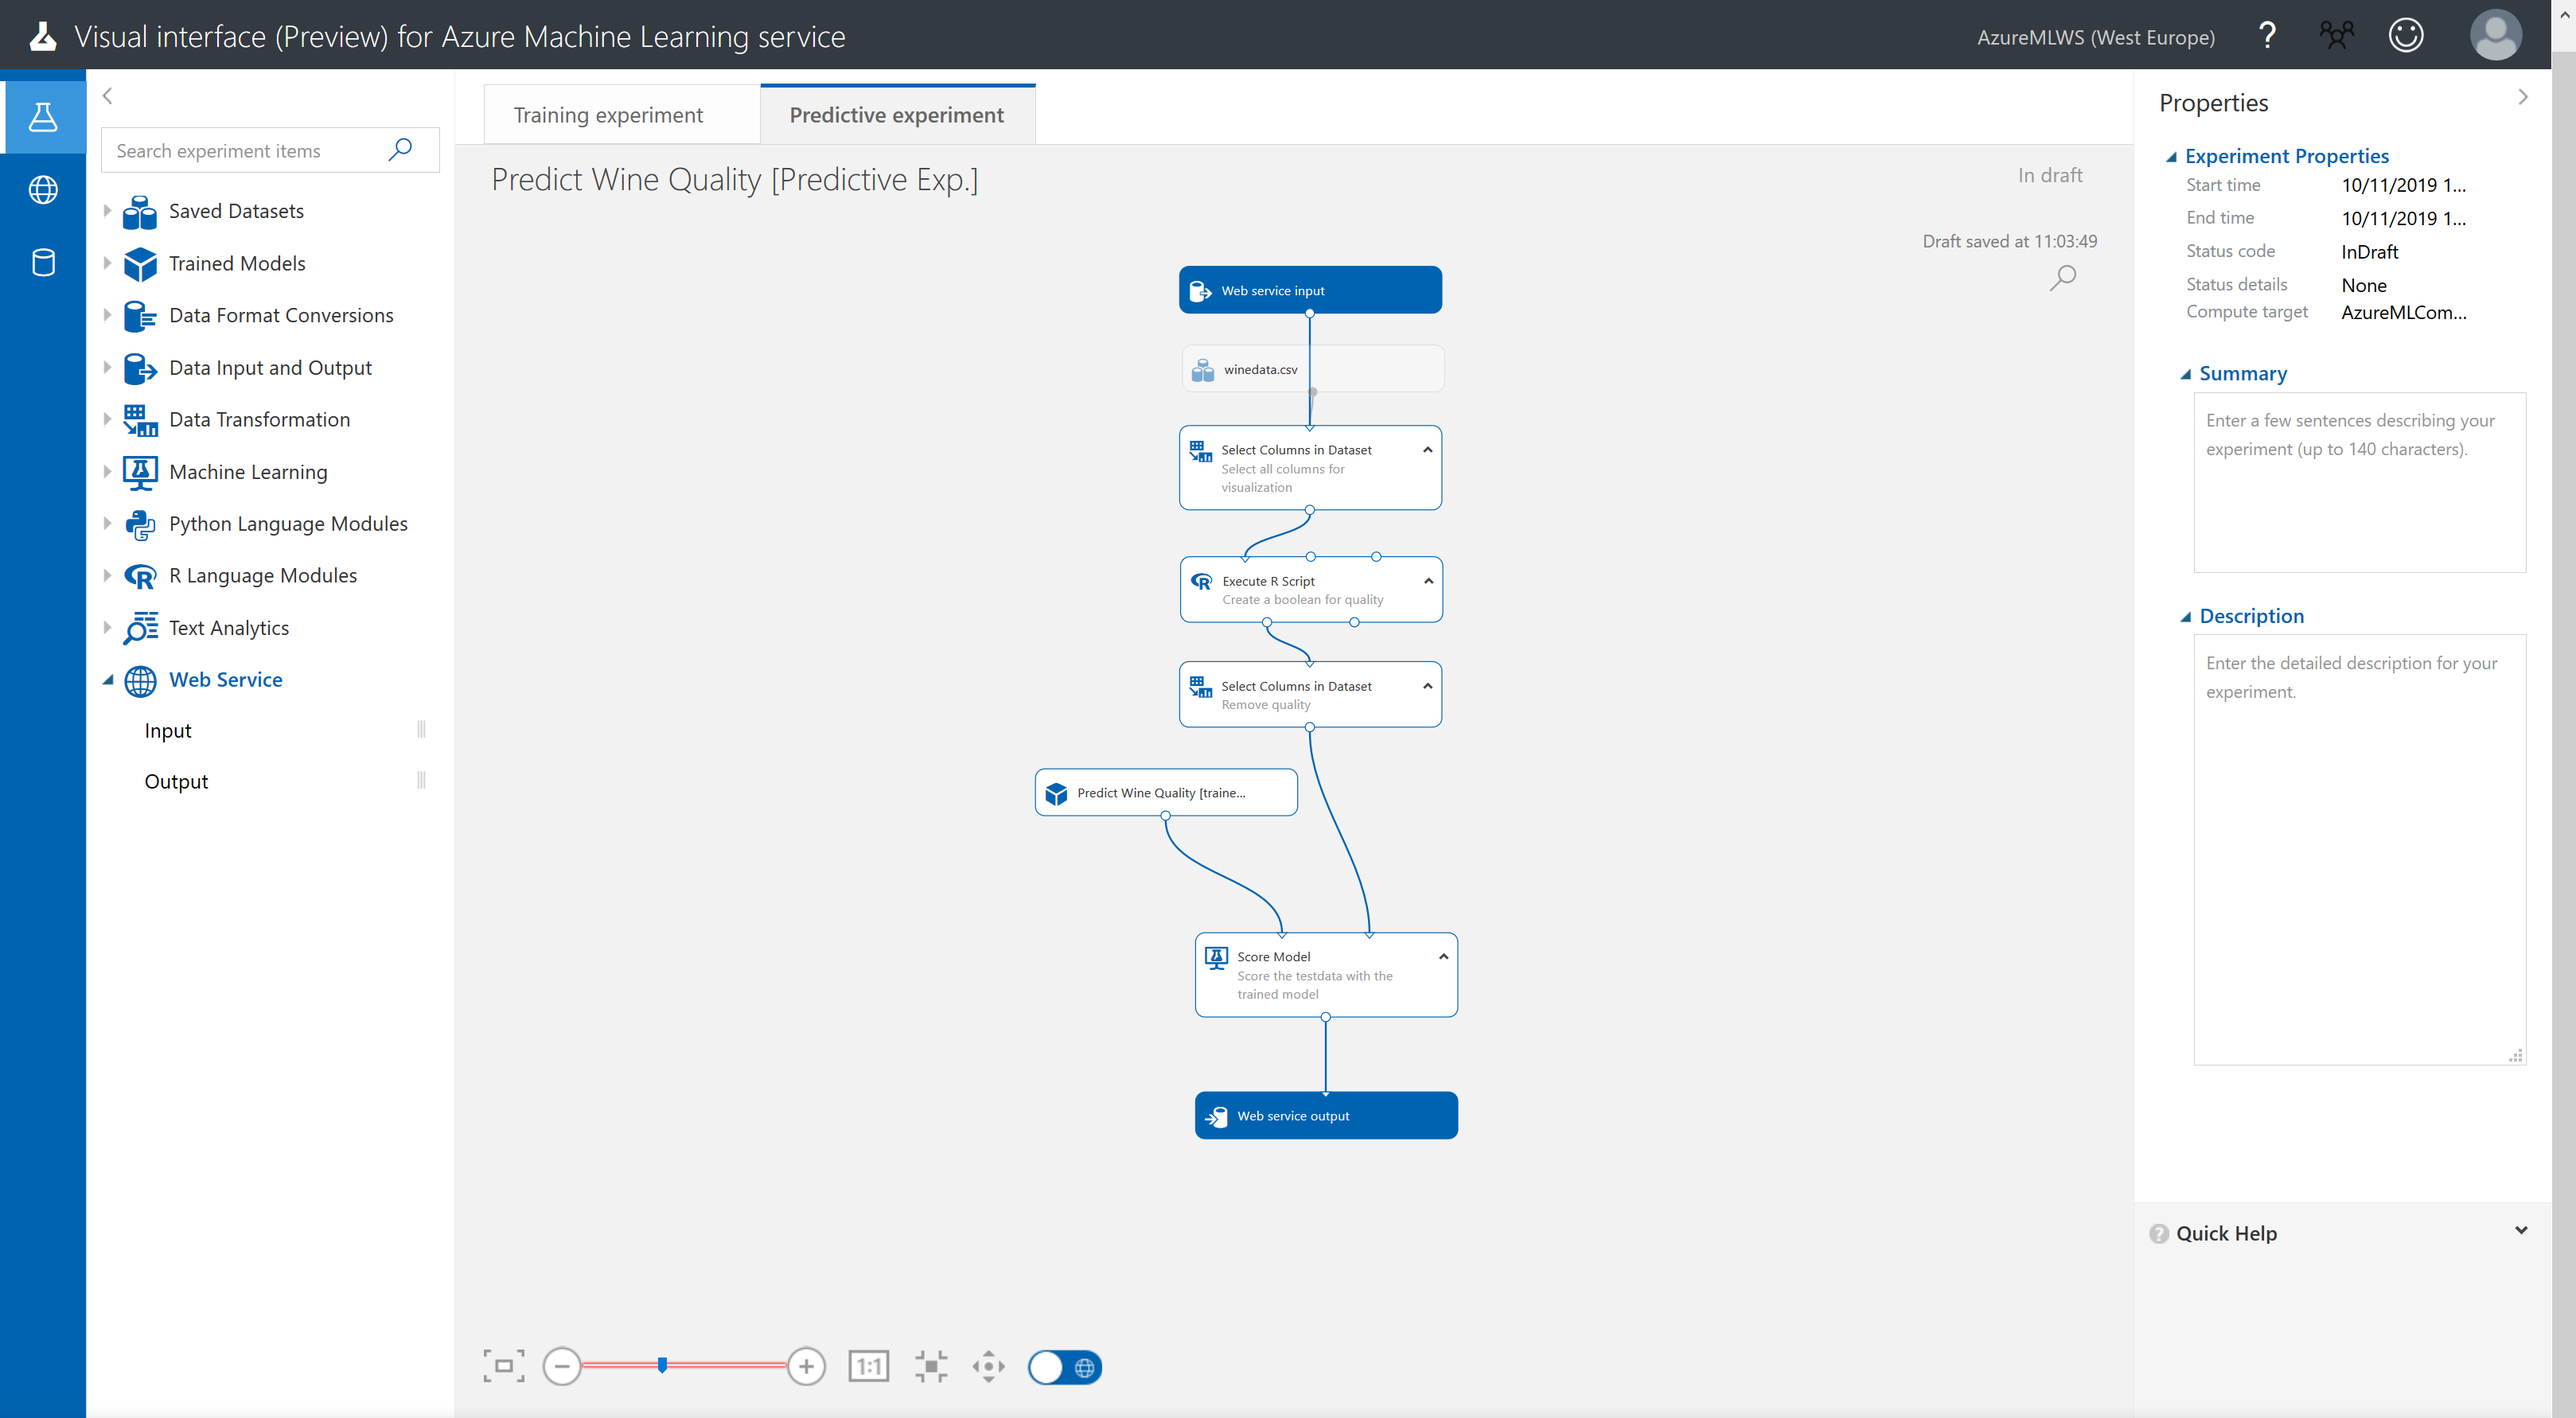
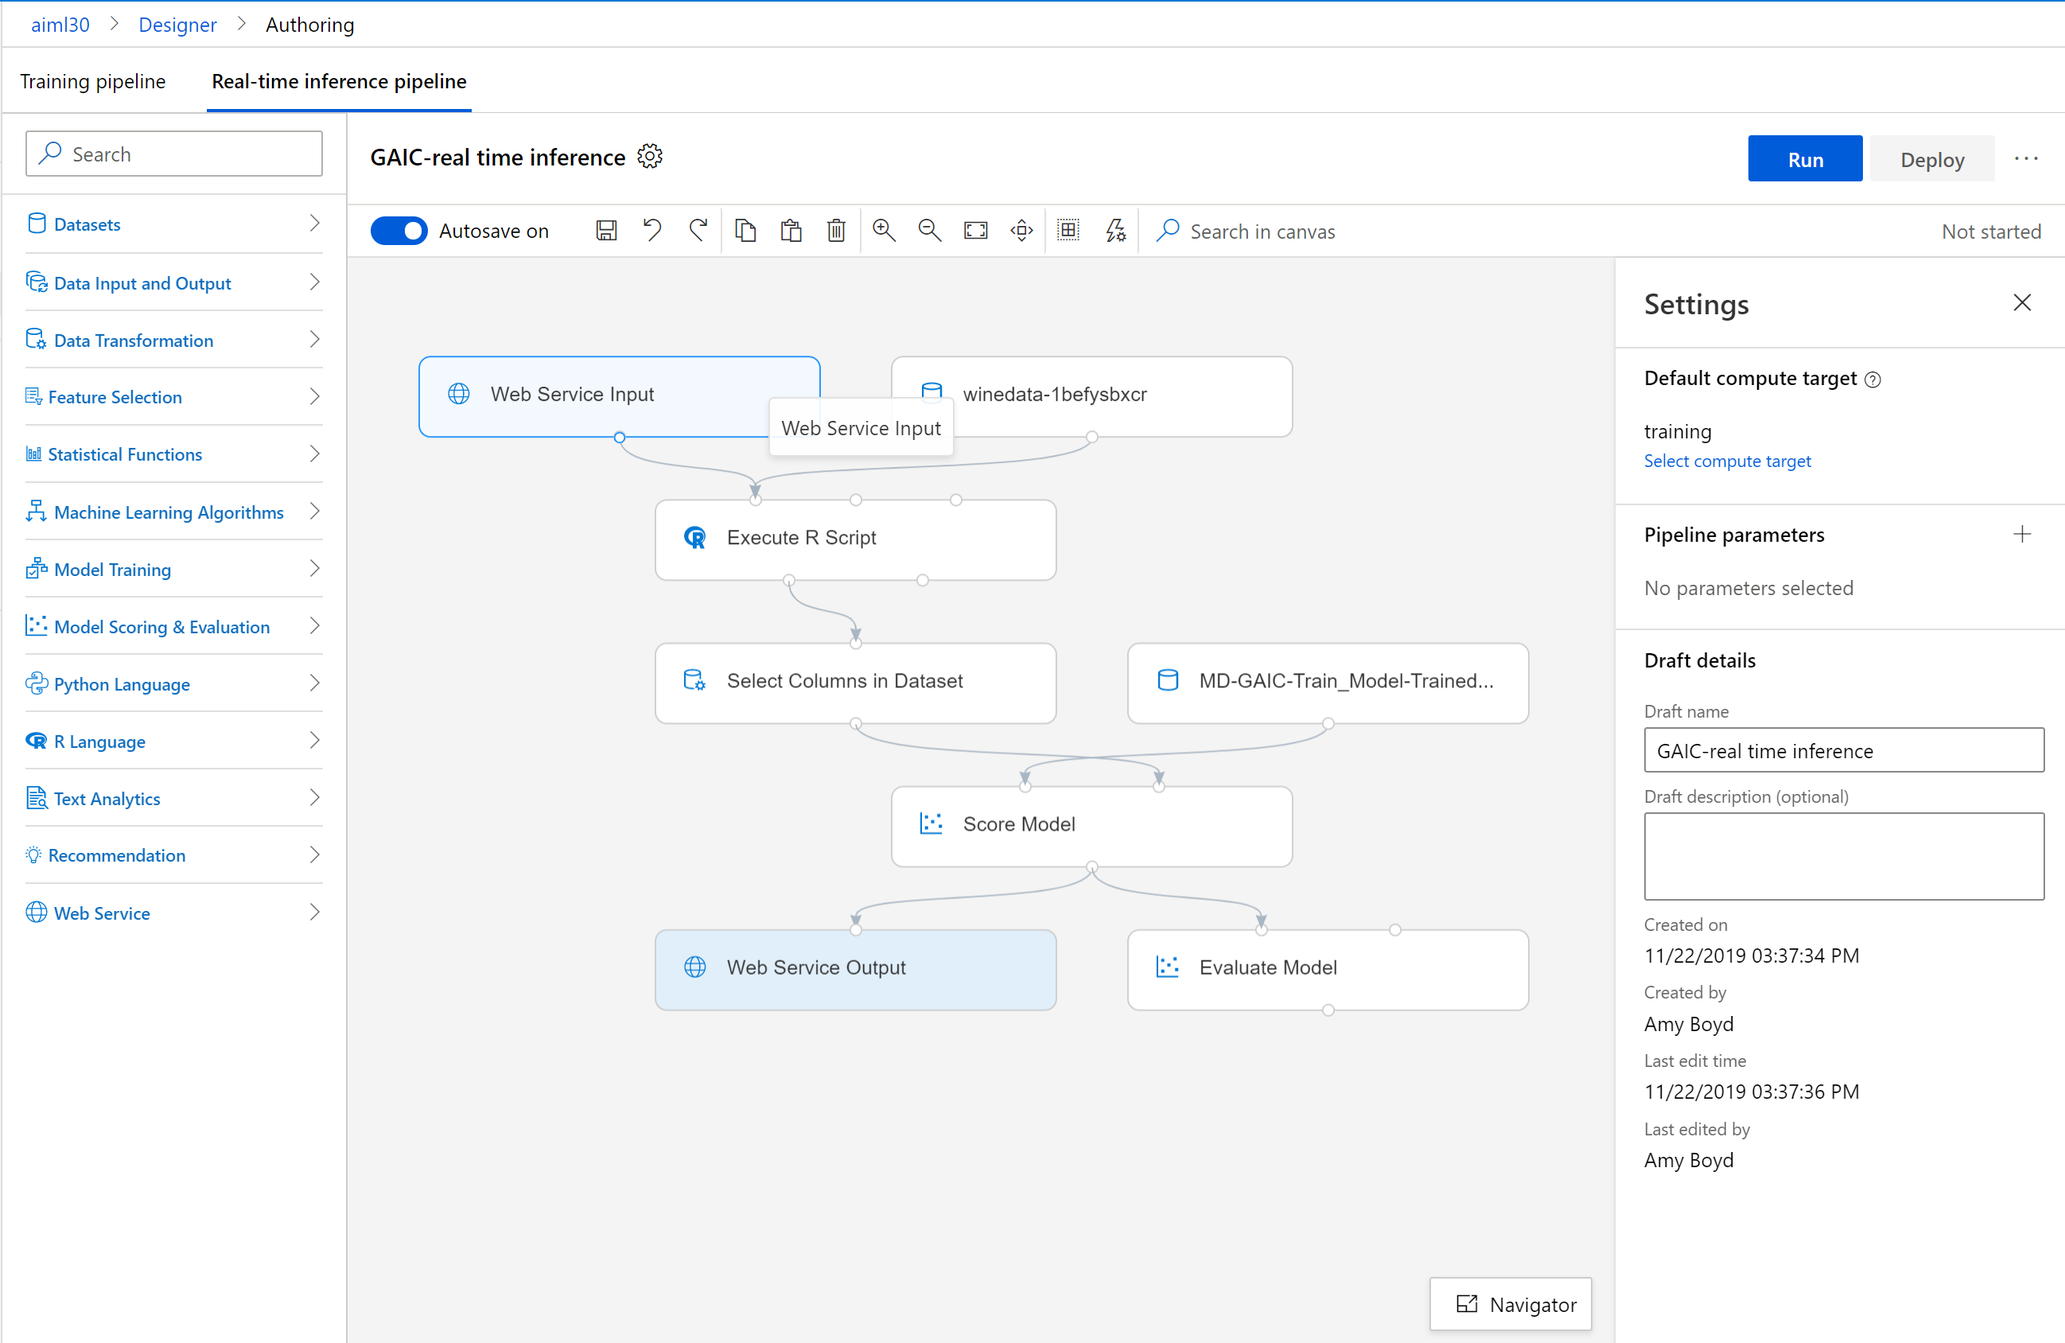
update content for web service

diff --git a/README.md b/README.md
@@ -245,13 +245,13 @@ Be critical here: it might be nice to see that you have reached 77% of accuracy 
 
 ### Deployment
 
-In this part of the lifecycle, there is one main goal. You want to deploy our prior develop model, with a data pipeline to a production or production-like environment for final user acceptance.
+In this part of the lifecycle, there is one main goal. You want to deploy our prior developed model, with a data pipeline to a production or production-like environment for final user acceptance.
 
 #### Create a Predictive Experiment
 
-When you are satisfied with your model quality, you have to option to create a predictive experiment.
+When you are satisfied with your model quality, you have to option to create an inference pipeline
 
-* Click on Create Predictive Experiment. You will be only allowed to click on this button if you have successfully run the experiment.
+* Click on 'Create inference pipeline' and choose 'Real-time inference pipeline'. You will be only allowed to click on this button if you have successfully run the experiment.
 
 This will create a new experiment that is linked to your training experiment.
 
@@ -259,7 +259,7 @@ This will create a new experiment that is linked to your training experiment.
 
 One important step to conduct before you can deploy this model, is eliminating the dependent variable from your model. When you want to make predictions based on new data, this is exactly the variable you don’t have!
 
-* Select the second Select Columns from Dataset module
+* Select the Select Columns from Dataset module
 * Enhance the rule, indicating that you also want to exclude the variable qualityBool
 
 ![Exclude dependent variable from selection](docsimages/excludeDependent.png)
@@ -271,7 +271,7 @@ One important step to conduct before you can deploy this model, is eliminating t
 
 #### Deploy the Web Service
 
-The final step would be de deployment of the model. Just click on the Deploy Web Service at the bottom of the window, and you are done! Well, almost. For the deployment, you need to create a compute with the type “Kubernetes Service”.
+The final step would be the deployment of the model. Just click on the Deploy Web Service at the bottom of the window, and you are done! Well, almost. For the deployment, you need to create a compute with the type “Kubernetes Service”.
 
 ![Testing the web service](docsimages/testingWebservice.png)
 
@@ -289,13 +289,13 @@ Finally, you have to think about our customers. In most cases, you cannot just s
 
 ## Summary
 
-In this workshop you learned how to build a classification model with the new visual interface for Azure Machine Learning Service.
+In this workshop you learned how to build a classification model with the Azure Machine Learning designer.
 
 ## Source
 
 ### Environment
 
-* [Visual Interface for Azure Machine Learning](<"https://studio.azureml.com">)
+* [Azure Machine Learning designer](http://ml.azure.com/)
 * [Azure platform](<"https://portal.azure.com">)
 
 ### Raw data and additional information
